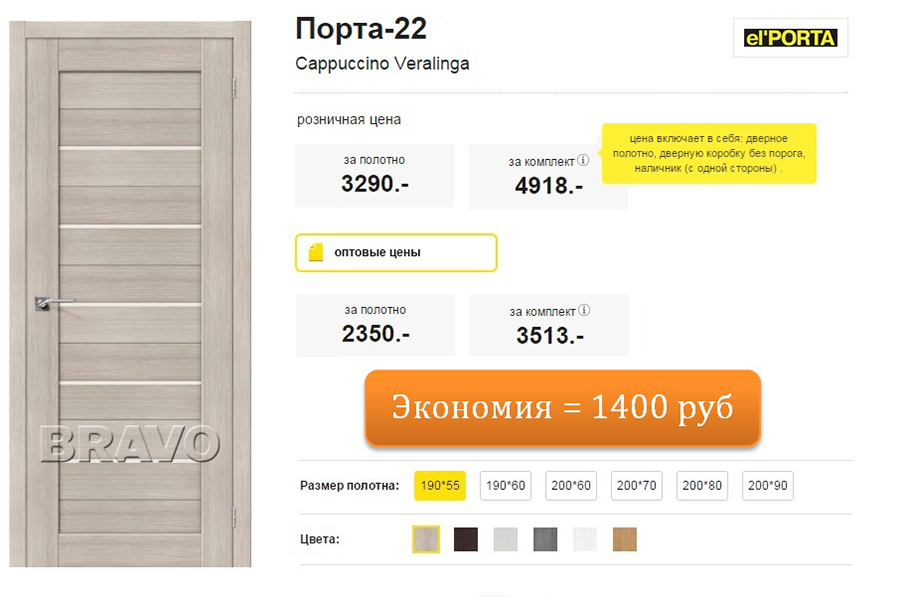
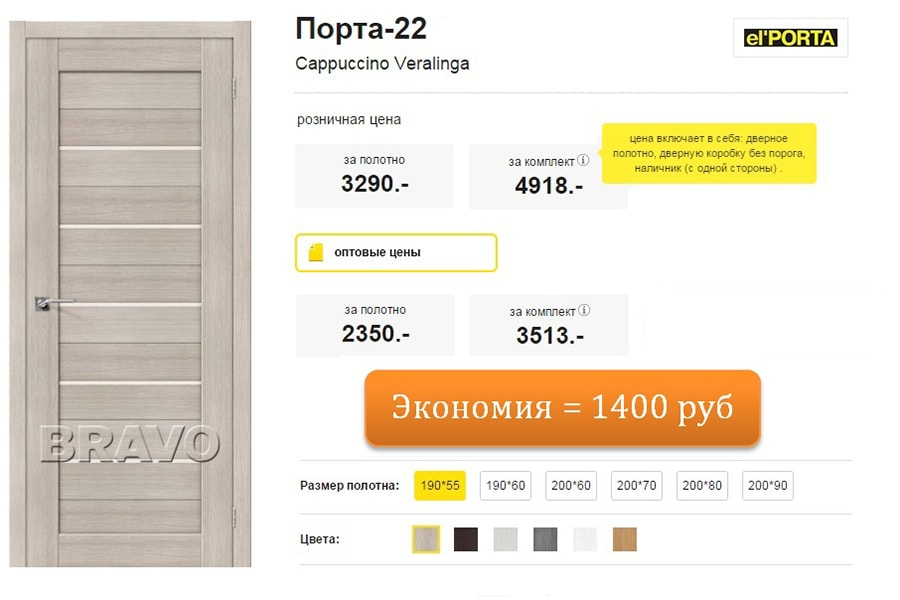
7777
7777

diff --git a/bravo.html b/bravo.html
@@ -234,7 +234,7 @@
 
 					<div class="col-md-4 col-xs-12">
 						<div class="preview">
-							<div class="preview__image"><a href="img/b_shpon_2.jpg"><img src="img/b_shpon_2.jpg" alt=""></a></div>
+							<div class="preview__image"><a href="img/b_shpon_3.jpg"><img src="img/b_shpon_3.jpg" alt=""></a></div>
 						</div>
 					</div>
 					<!--<div class="col-md-2 col-xs-6">
